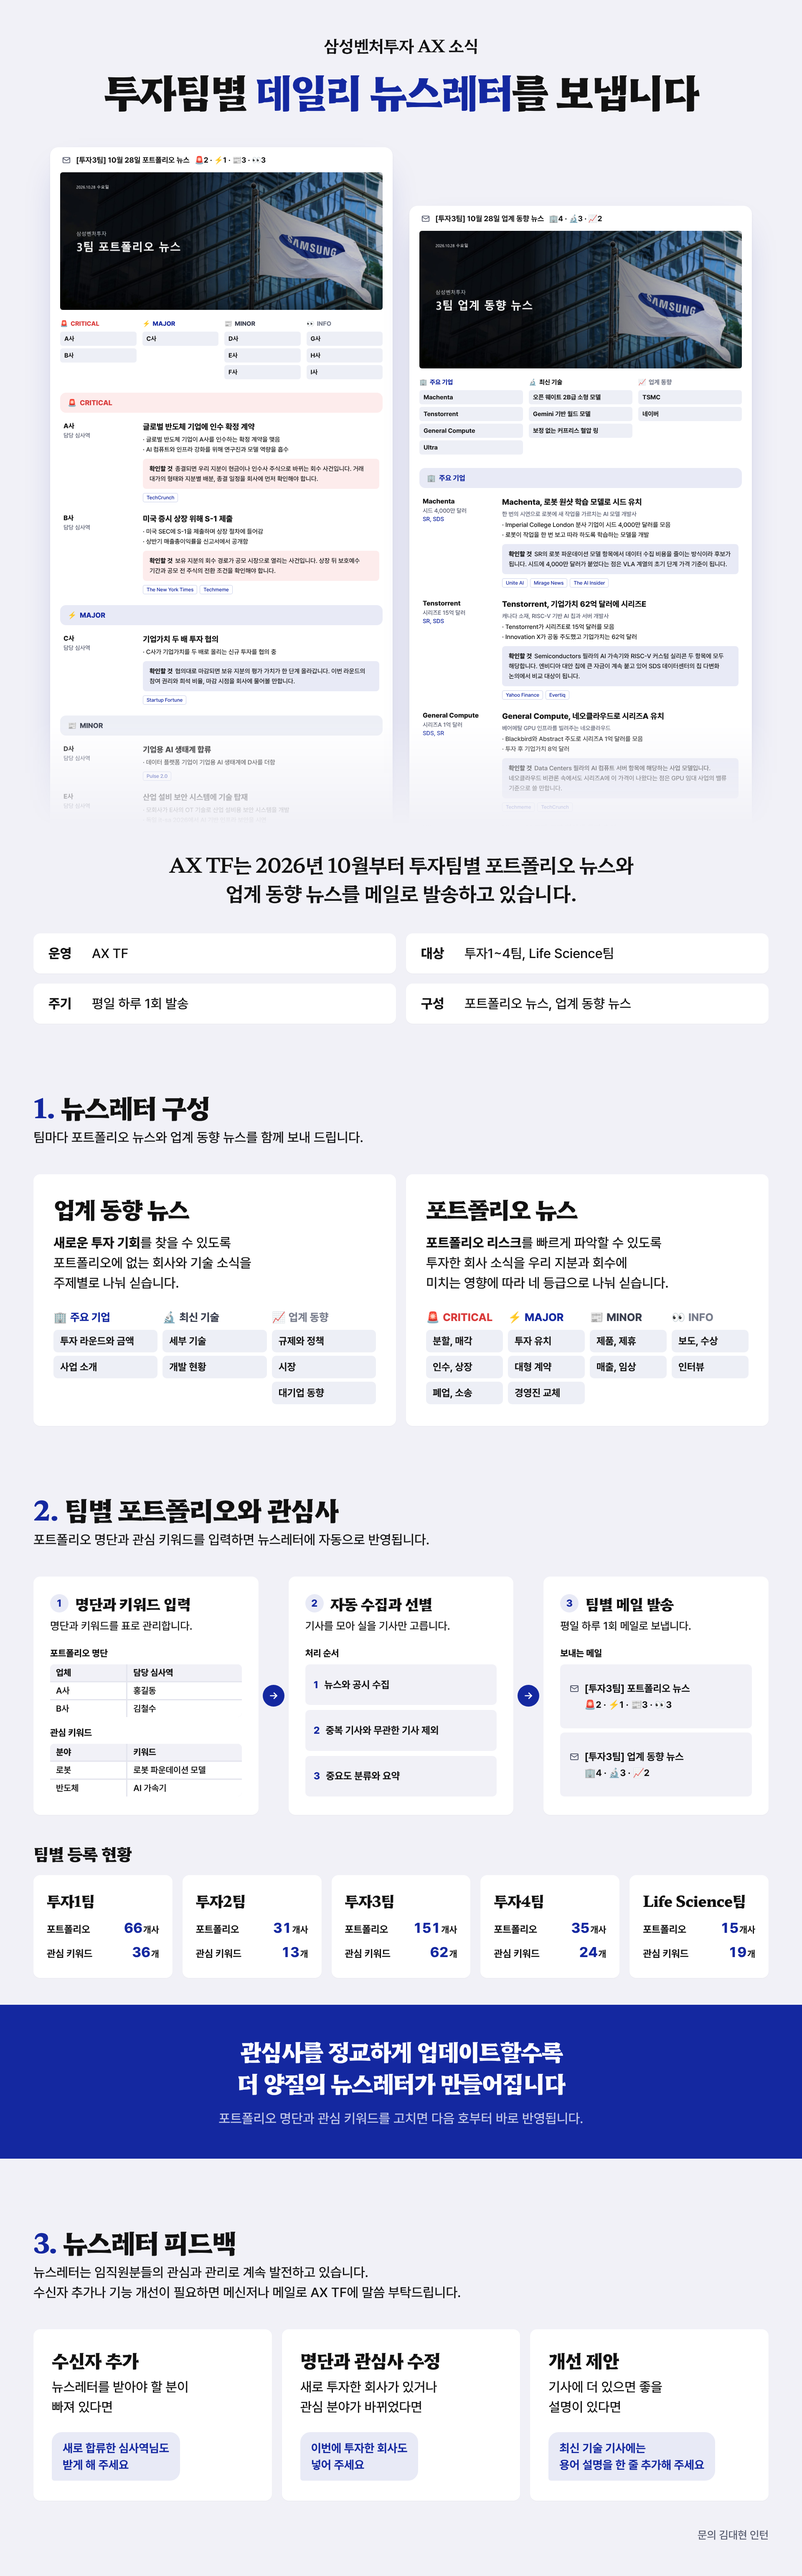
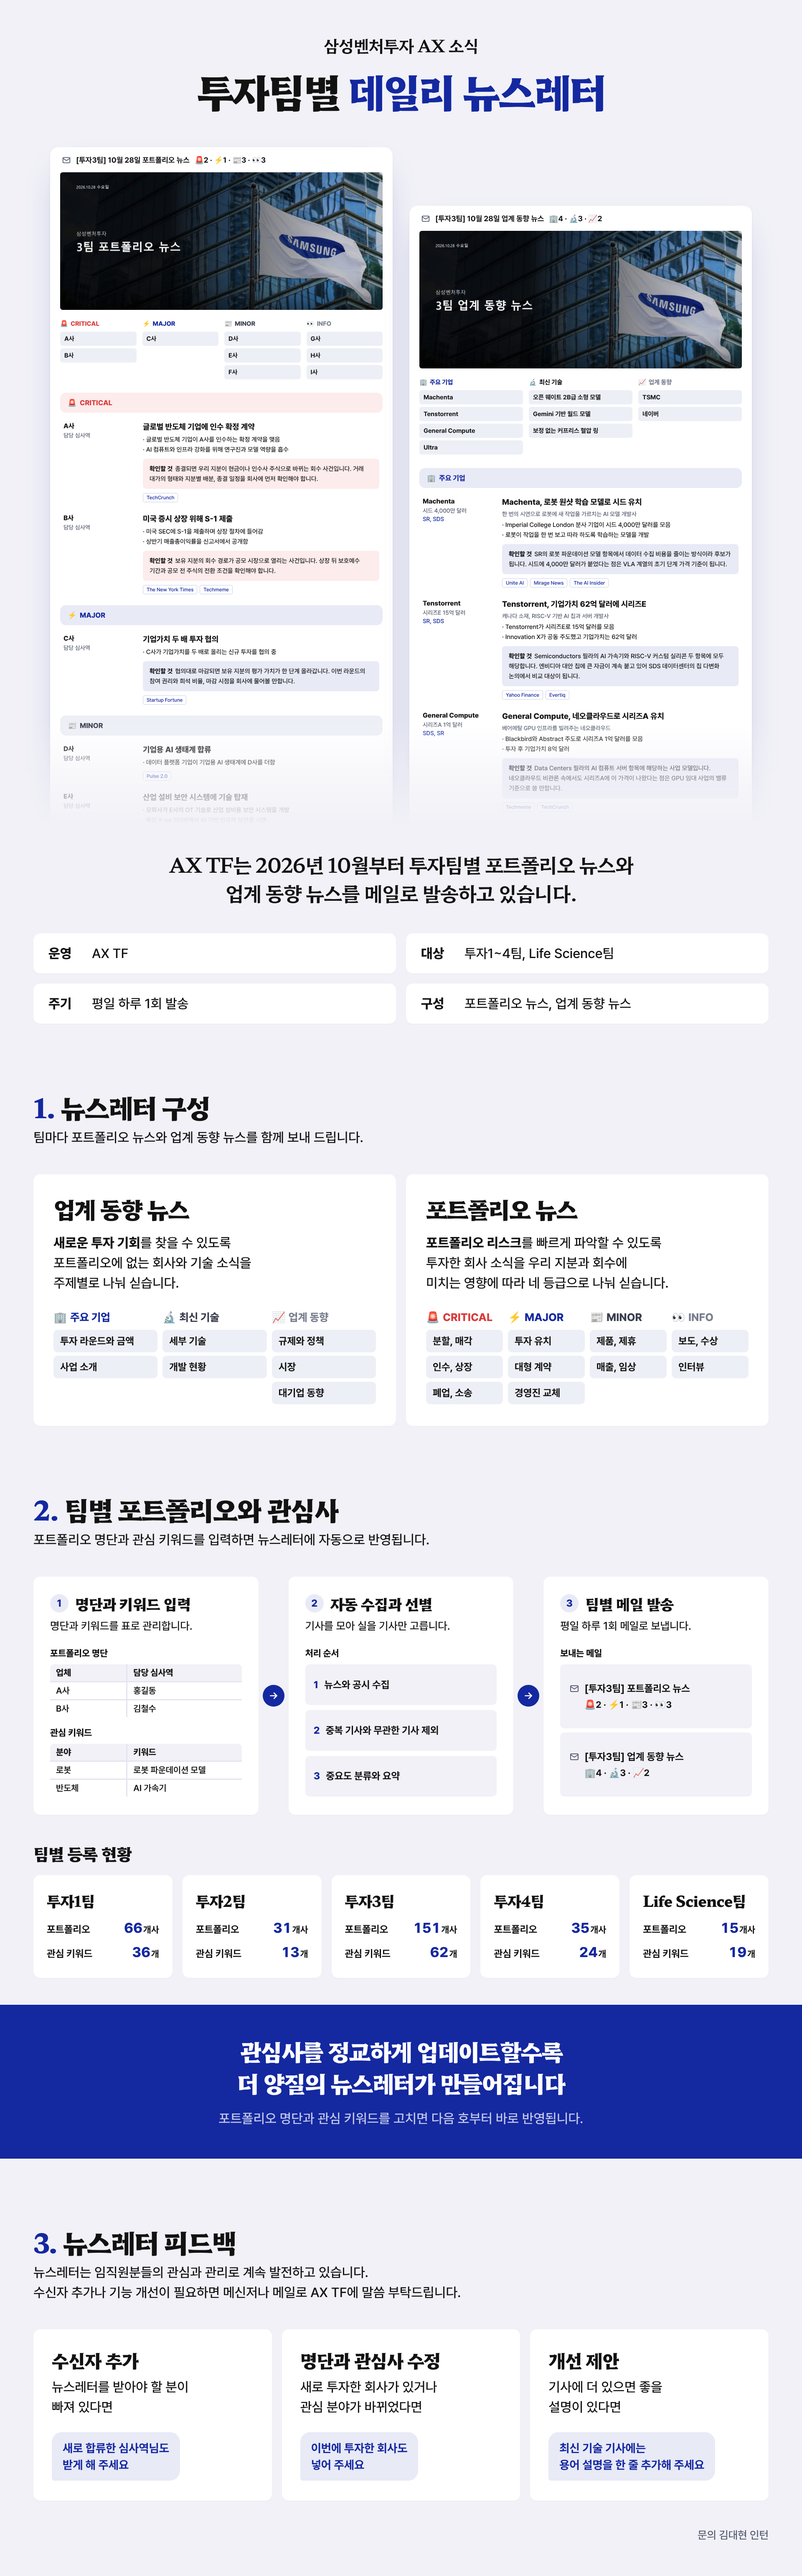
newsletter-notice: 제목을 문장 대신 명사구로 바꿈
투자팀별 데일리 뉴스레터를 보냅니다 → 투자팀별 데일리 뉴스레터

Claude-Session: https://claude.ai/code/session_01YSjo2N4gvMJ1LtkTYgDKfT

Changed region(s): [[0.125, 0.0312, 0.875, 0.0623]]

diff --git a/ax-tf/newsletter-notice/notice.html b/ax-tf/newsletter-notice/notice.html
@@ -166,7 +166,7 @@ svg { display: block; }
   <section class="s hero">
     <div class="head">
       <div class="org">삼성벤처투자 AX 소식</div>
-      <div class="decl">투자팀별 <em>데일리 뉴스레터</em>를 보냅니다</div>
+      <div class="decl">투자팀별 <em>데일리 뉴스레터</em></div>
     </div>
     <div class="mails">
       <div class="mail m1">
